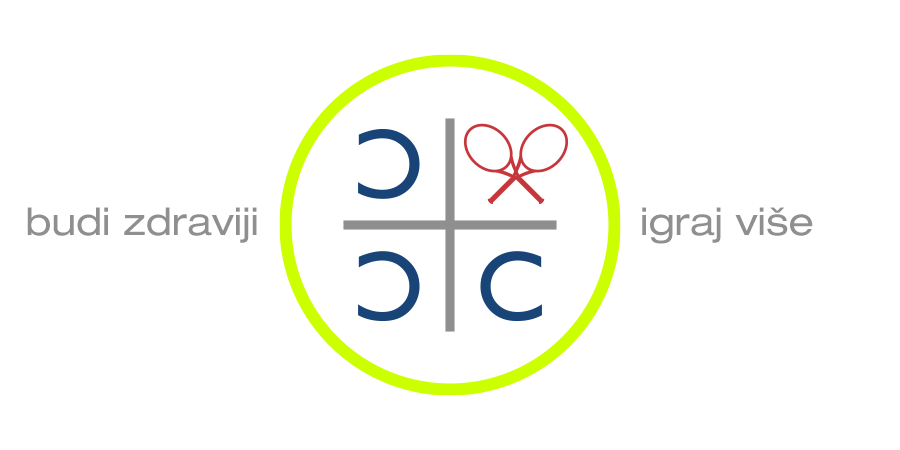
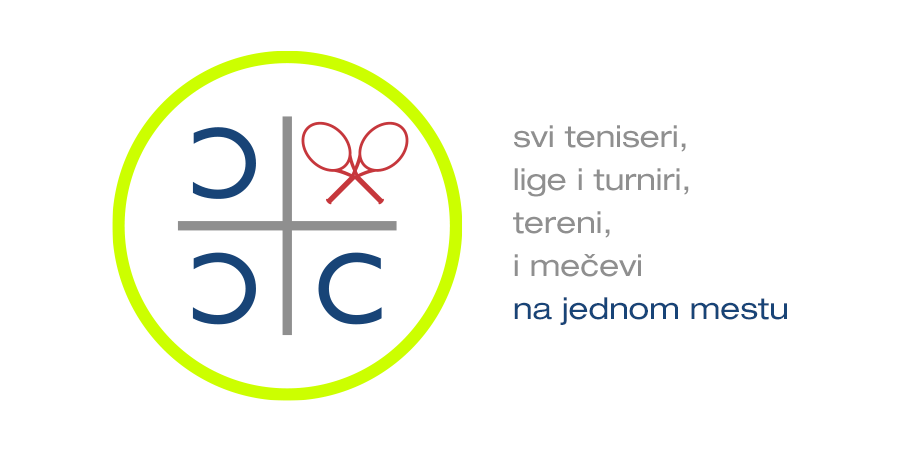
Design changes
- Header changed from 2 rows to 1
- Changed social media preview image
- Adjusted tables for header changes

Changed region(s): [[0.0311, 0.0933, 0.9022, 0.9022]]

diff --git a/resources/css/sass/pages/_header.scss b/resources/css/sass/pages/_header.scss
@@ -140,7 +140,34 @@
         position: sticky;
         z-index: 1;
         top: 0;
+  svg {
+            position: absolute;
+            height: 80px;
+            top: 84%;
+            left: 50%;
+            transform: translate(-50%, -50%);
 
+            .cls-1 {
+                    fill: #fff;
+                }
+            
+                .cls-2 {
+                    fill: #cf0;
+                }
+            
+                .cls-3 {
+                    fill: #8f8f8f;
+                }
+            
+                .cls-4 {
+                    fill: #194477;
+                }
+            
+                .cls-5 {
+                    fill: #c7373d;
+                }
+
+        }
         .links {
             width: 1200px;
             display: grid;
@@ -391,7 +418,7 @@
         flex-direction: column;
         gap: 30px;
         padding-left: 30px;
-        padding-top: 30px;
+        padding-top: 50px;
         padding-bottom: 150px;
 
         a {
@@ -523,7 +550,9 @@
         }
 
         .links-wrapper {
-            display: none;
+            .links{
+                display: none;
+            }
         }
 
         .mobile-underheader {

diff --git a/resources/js/Layouts/Layout.vue b/resources/js/Layouts/Layout.vue
@@ -145,16 +145,17 @@ watch(
 <template>
     <Loader :show="loading" />
     <header class="header-wrapper">
-        <div class="logo-wrapp" :style="{ marginTop: -topOffset + 'px' }">
-            <Link prefetch="false" :href="'/'">
-                <p class="STL"><span class="red">Srpska</span> <span class="blue">Tenis</span> Liga</p>
-                <Logo :style="{ top: 50 - topOffset + 'px'}" />
-                <p class="logo-message desktop">budi zdraviji, igraj više </p>
-                <p class="logo-message mobile left">budi zdraviji</p>
-                <p class="logo-message mobile right">igraj više</p>
-            </Link>
-        </div>
+        <!-- <div class="logo-wrapp" :style="{ marginTop: -topOffset + 'px' }"> -->
+            <!-- <Link prefetch="false" :href="'/'"> -->
+                <!-- <p class="STL"><span class="red">Srpska</span> <span class="blue">Tenis</span> Liga</p> -->
+                <!-- <Logo :style="{ top: 50 - topOffset + 'px'}" /> -->
+                <!-- <p class="logo-message desktop">budi zdraviji, igraj više </p> -->
+                <!-- <p class="logo-message mobile left">budi zdraviji</p> -->
+                <!-- <p class="logo-message mobile right">igraj više</p> -->
+            <!-- </Link> -->
+        <!-- </div> -->
         <div class="links-wrapper">
+            <Logo :style="{ top: 50 + 'px'}" />
             <div class="links" :class="{'admin': $page.props.auth.user}">
                 <Link prefetch="false" :href="'/'" :class="{ active: $page.url === '/', activeChild: activeChilds.players }">teniseri</Link>
                 <Link prefetch="false" :href="'/lige-turniri'" :class="{ active: $page.url === '/lige-turniri', activeChild: activeChilds.leagues }">lige i turniri</Link>

diff --git a/resources/js/Pages/Rules.vue b/resources/js/Pages/Rules.vue
@@ -152,3 +152,10 @@ onMounted(async () => {
 
     </div>
 </template>
+<style lang="scss" scoped>
+
+h2{
+    margin-top: 50px;
+}
+
+</style>

diff --git a/resources/js/Pages/Courts.vue b/resources/js/Pages/Courts.vue
@@ -47,7 +47,7 @@ const topOffset = computed(() => {
   <Head title="Tereni -" />
 <div class="rankings-wrapper courts-list mobile-mb-300">
     <div id="desktop">
-      <div class="rankings-header" :style="{top: `${ 137 - topOffset}px`}">
+      <div class="rankings-header" :style="{top: `${ 77 - topOffset}px`}">
         <div class="spacer"></div>
         <div class="name">teren</div>
         <div class="spacer"></div>

diff --git a/resources/js/Pages/Home.vue b/resources/js/Pages/Home.vue
@@ -61,7 +61,7 @@ const topOffset = computed(() => {
   <Head title="Teniseri -" />
   <div class="rankings-wrapper mobile-mb-300">
     <div id="desktop">
-      <div class="rankings-header" :style="{top: `${ 137 - topOffset}px`}">
+      <div class="rankings-header" :style="{top: `${ 77 - topOffset}px`}">
         <div class="spacer"></div>
         <div class="name">teniser</div>
         <div class="spacer"></div>

diff --git a/resources/js/Pages/Leagues.vue b/resources/js/Pages/Leagues.vue
@@ -92,7 +92,7 @@ const topOffset = computed(() => {
   <Head title="Lige & Turniri -" />
   <div class="rankings-wrapper leagues mobile-mb-300">
     <div id="desktop">
-      <div class="rankings-header" :style="{top: `${ 137 - topOffset}px`}">
+      <div class="rankings-header" :style="{top: `${ 77 - topOffset}px`}">
         <div class="spacer"></div>
         <div class="name">lige i turniri</div>
         <div class="wins">poeni</div>

diff --git a/resources/js/Pages/Matches.vue b/resources/js/Pages/Matches.vue
@@ -216,7 +216,7 @@ function getDateMonth(date) {
     <Head v-if="isHome" title="Mečevi -" />
     <div class="matches-wrapper" :class="{'home': isHome, 'mobile-mb-300': isHome}">
         <div id="desktop">
-            <div class="matches-header" :class="{'home': isHome}" :style="{top: `${ 85 - topOffset}px`}">
+            <div class="matches-header" :class="{'home': isHome}" :style="{top: `${ 20 - topOffset}px`}">
                 <div class="spacer number"></div>
                 <div class="winner">pobednik</div>
                 <div class="loser">gubitnik</div>